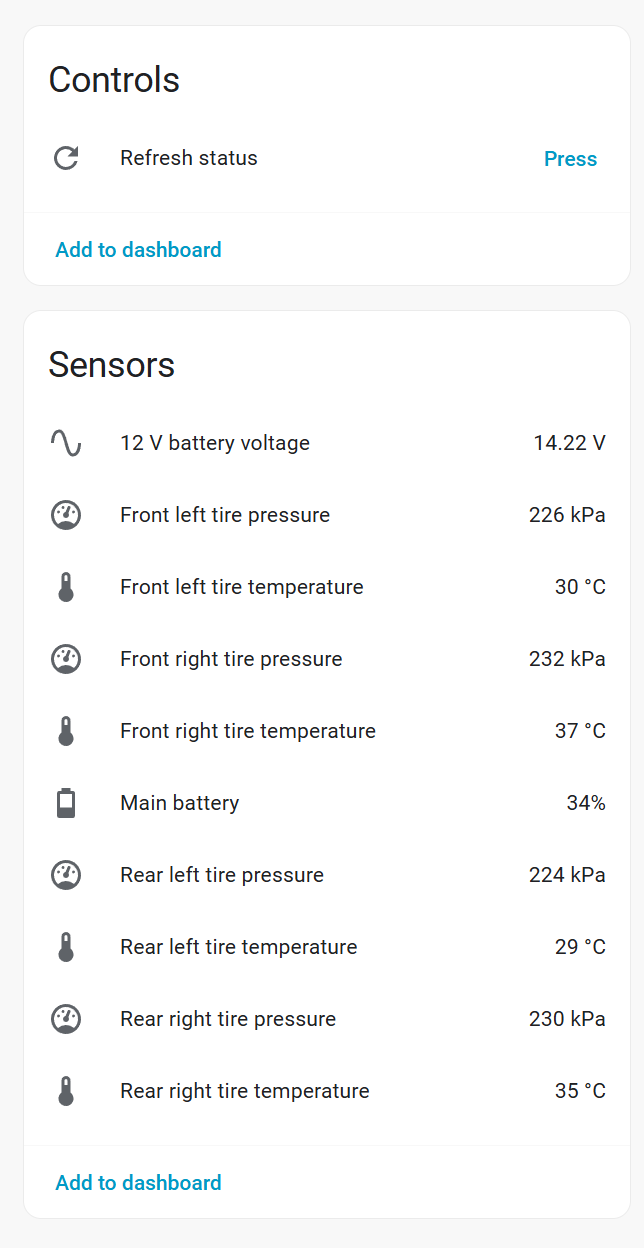
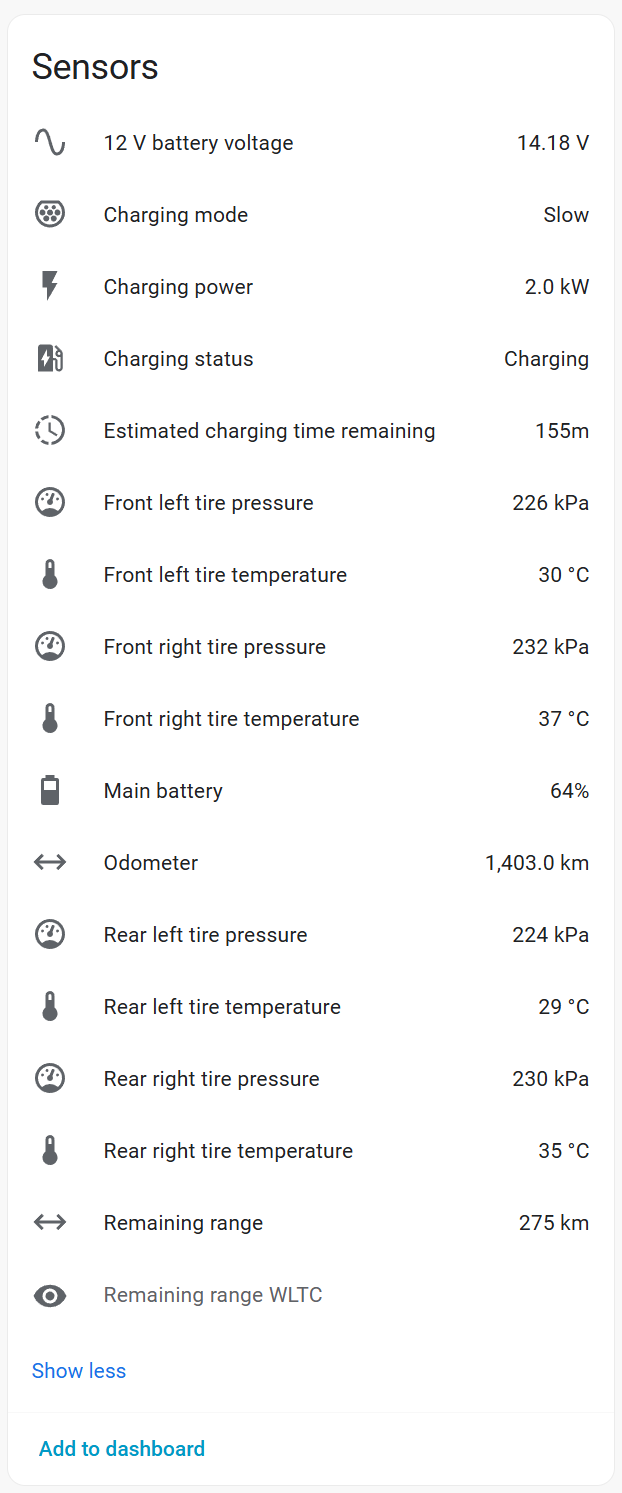
Document all provided sensors and refresh HA screenshot

diff --git a/README.md b/README.md
@@ -1,24 +1,37 @@
 # Chery iCar BLE for Home Assistant
 
-Monitor your Chery iCar's battery, range, odometer and tires locally over Bluetooth, using an
+Monitor your Chery iCar's battery, charging, range, odometer and tires locally over Bluetooth, using an
 ESPHome Bluetooth proxy or a Bluetooth adapter connected to Home Assistant.
 
 **No cloud account or app credentials required for the tested status connection.**
 
-![Chery iCar battery and tire sensors in Home Assistant](docs/home-assistant-sensors.png)
+![Chery iCar battery, charging, range, odometer and tire sensors in Home Assistant](docs/home-assistant-sensors.png)
 
 ## What you get
 
-- Main battery charge percentage.
-- 12 V battery voltage.
-- Remaining range and odometer in kilometres.
-- Charging status, charging mode, and charging power in kW.
-- Estimated charging time remaining in minutes, available while charging or heating.
-- Optional **Remaining range WLTC** in kilometres (disabled by default).
-- Tire pressure and temperature for each wheel.
-- A **Refresh status** button for an immediate reading.
-- Automatic discovery of nearby cars whose Bluetooth name starts with `CHR`.
-- Polling every **30 minutes** by default, with a configurable interval.
+The integration provides **17 sensors**: 16 enabled by default and the optional
+WLTC range sensor disabled by default.
+
+| Sensor | Unit / values | Notes |
+| --- | --- | --- |
+| Main battery | % | Traction battery charge level. |
+| 12 V battery voltage | V | Low-voltage system reading. |
+| Charging status | Idle, Charging, Completed, Cancelled, Heating, Stopped | Current reported charging state. |
+| Charging mode | Slow, Fast, Connected but not charging, Not charging | Unrecognized codes show as unknown. |
+| Charging power | kW | Power reported by the car. |
+| Estimated charging time remaining | Minutes | Available while charging or heating; updates with each poll. |
+| Remaining range | km | The car's standard remaining-range estimate. |
+| Remaining range WLTC | km | Alternative estimate using the WLTC method; **disabled by default**. |
+| Odometer | km | Total distance travelled. |
+| Front left / front right / rear left / rear right tire pressure | kPa | Four individual sensors; HA can display bar or psi. |
+| Front left / front right / rear left / rear right tire temperature | °C | Four individual sensors. |
+
+The screenshot shows an active charging session. The grey **Remaining range WLTC**
+entry is disabled; enable it in the entity settings to use it.
+
+You also get a **Refresh status** button, automatic discovery of nearby `CHR`
+vehicles, and polling every **30 minutes** by default with a configurable interval.
+All sensors use the same status poll.
 
 The integration reads status only. It does not unlock, start, or otherwise control
 the car. Each poll disconnects after reading, leaving Bluetooth available between
